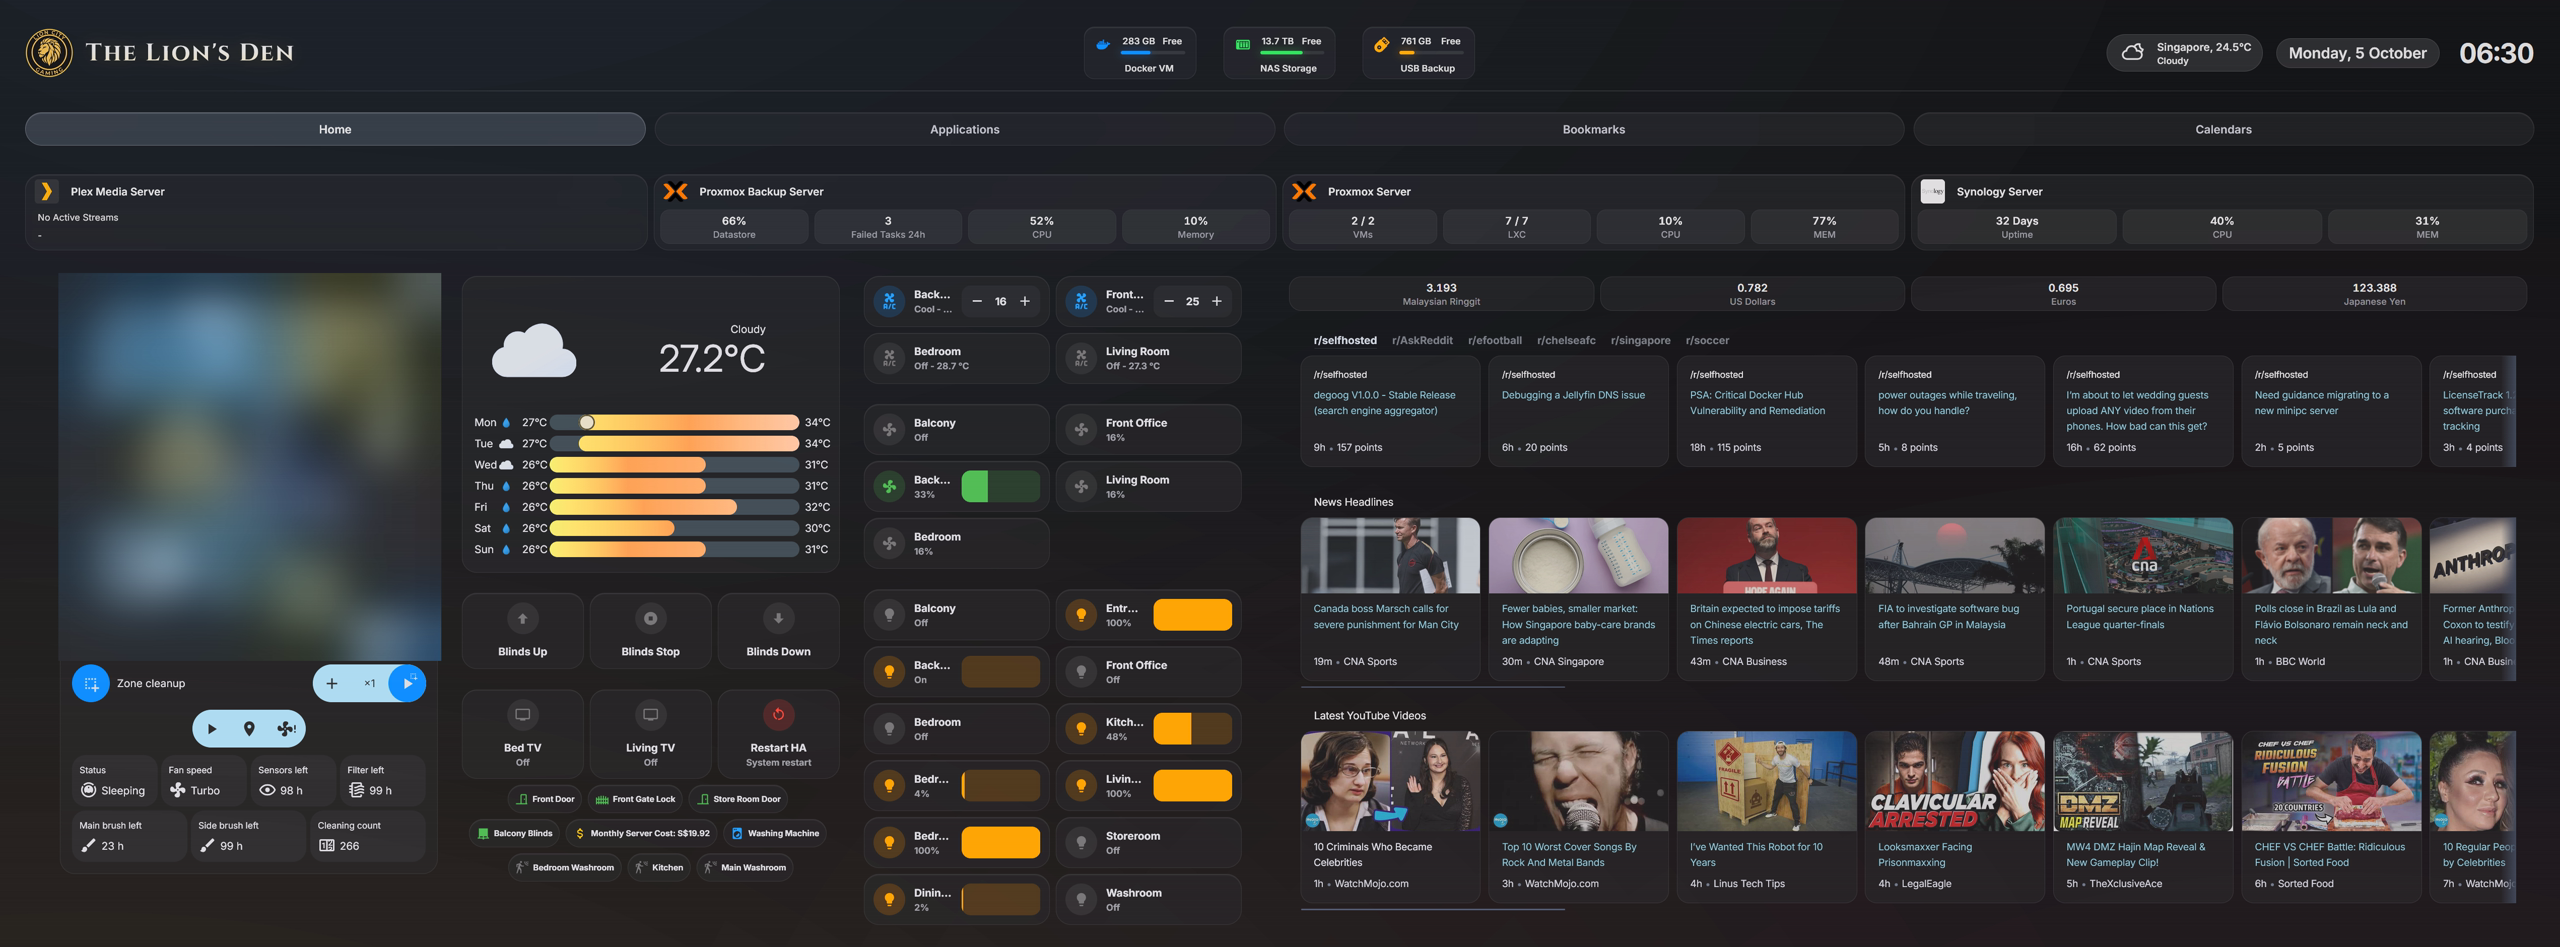
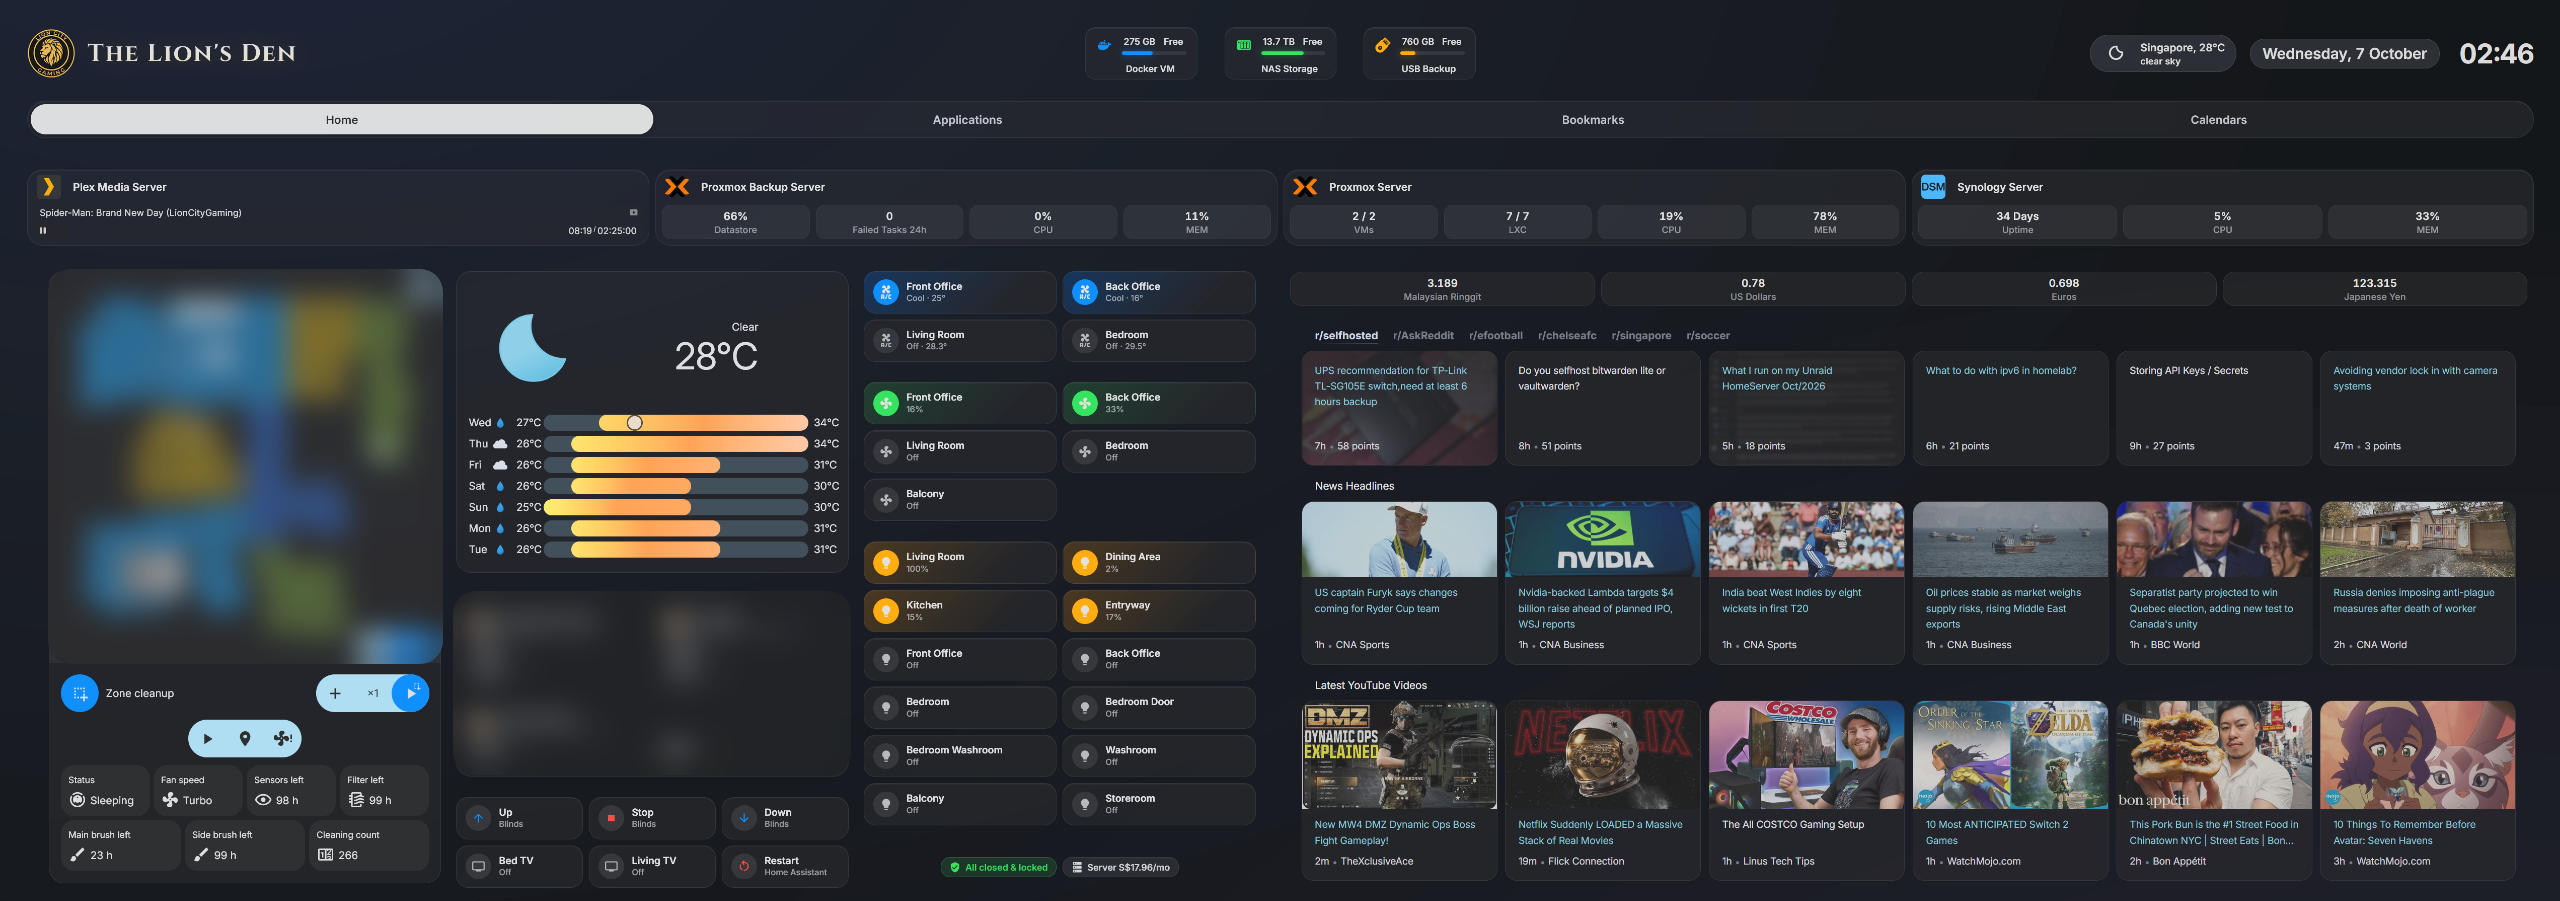
New Home and Calendars screenshots

diff --git a/README.md b/README.md
@@ -49,7 +49,7 @@ The tab bar works like an iOS segmented control: one glass track, with the open 
 
 ![The Bookmarks tab](screenshots/bookmarks.png)
 
-![Calendars tab: league table and media lists](screenshots/tables.png)
+![Calendars tab: Premier League fixtures and table, media lists](screenshots/tables.png)
 
 ## On phones
 
